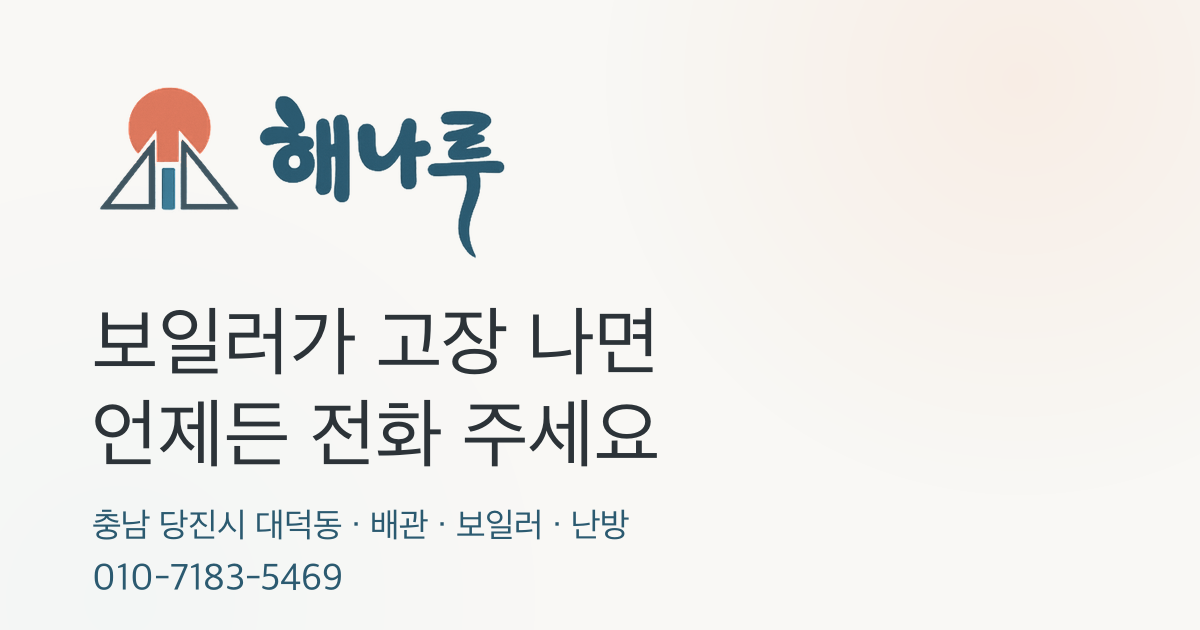
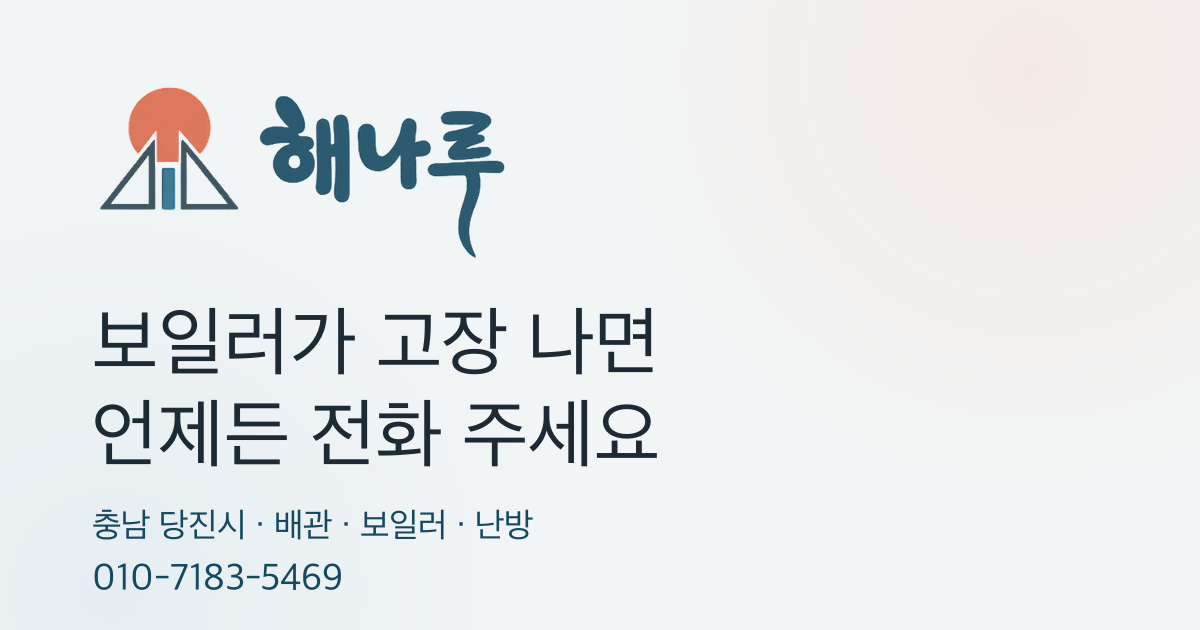
문의 문구 정리 및 영업 범위 표기를 당진시로 확대
- 홈 문의 섹션 제목을 "전화 주세요"로 줄이고, 영업시간 외 안내 문장은 삭제
  (문의 페이지에 중복으로 있던 같은 문장도 함께 제거)
- "당진시 대덕동"으로 영업 범위가 좁아 보이던 표기를 "당진시"로 변경
  (히어로 상단, 회사소개 본문, 오시는 길 제목)
- 공유 이미지(og-image)도 같은 문구와 현재 팔레트로 재생성
- 도로명주소 "충남 당진시 아미로 828(대덕동)"은 지도·길찾기 링크에 쓰이므로 유지

Changed region(s): [[0.2158, 0.7841, 0.5242, 0.8746]]

diff --git a/src/content/about.ts b/src/content/about.ts
@@ -3,7 +3,7 @@
 // 근거 없는 수사와 지어낸 이야기는 쓰지 않는다. 여기 적힌 사실은 전부 명함에서 확인된 것만이다.
 
 export const aboutParagraphs: string[] = [
-  "해나루 종합설비는 충남 당진시 대덕동에서 배관과 보일러, 난방 일을 하고 있습니다.",
+  "해나루 종합설비는 충남 당진시에서 배관과 보일러, 난방 일을 하고 있습니다.",
   "물이 새거나 보일러가 안 돌 때, 겨울에 배관이 얼었을 때 불러주시면 대표 김현욱이 직접 나가서 봅니다. 상하수도 배관공사부터 누수 탐지, 주택 리모델링, 조립식 건축, 코어작업까지 집에서 물과 불에 관한 일은 대부분 해 왔습니다.",
   "난방시공업2종과 가스시설시공업3종 등록업체입니다. 해야 할 대로, 안 보이는 곳까지 제대로 하는 걸 우선으로 생각합니다.",
 ];
